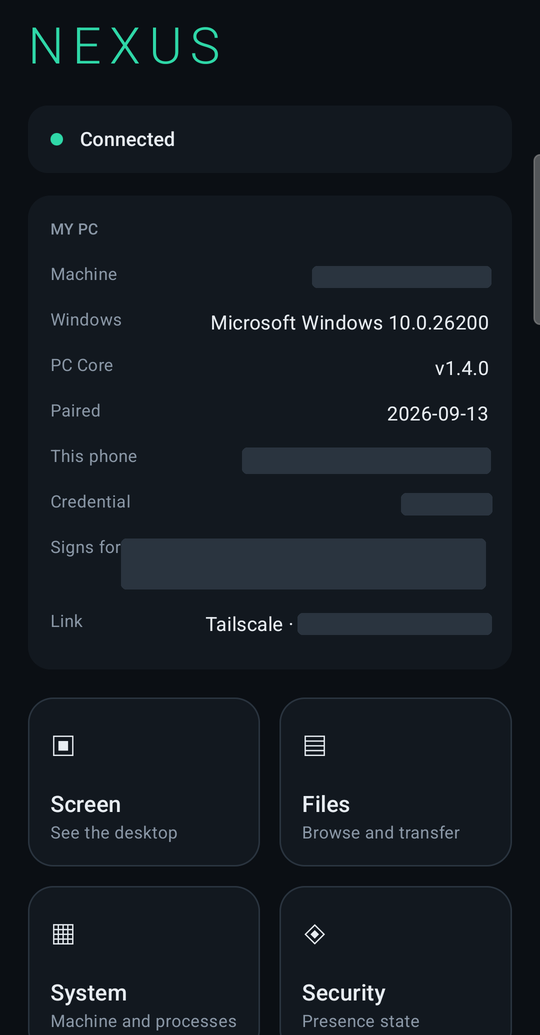
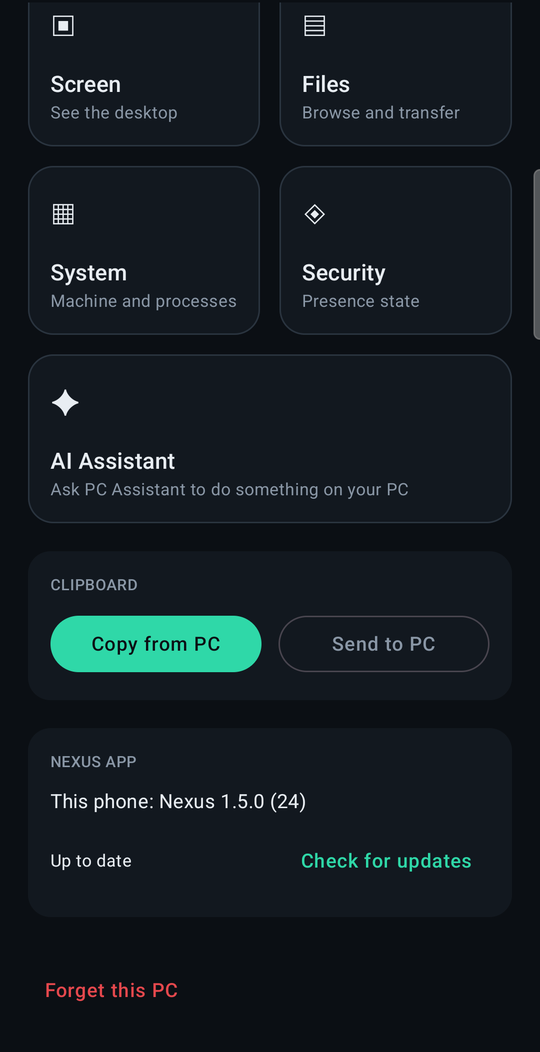
docs: real captures of a UAC prompt and the AI Assistant, taken on the phone
The README's hero is a recreation, and the real captures below it were all from 1.4.0, without the
two things Nexus is most likely to be doubted on. These were taken on the maintainer's phone on
2026-10-03, with Nexus 1.5.0, whose app is the same as 1.6.0's.

- A UAC consent prompt from the Secure Desktop, in the phone's Screen view. The command that raised
  it was typed on the phone, on a clean temporary desktop, and the prompt was answered No from the
  phone. A second capture shows the typed line and Windows' cancellation.
- An AI Assistant task in ASK mode: an approval card answered with Allow once on the phone, and the
  answer. That was the first approval answered from the real phone, so the README no longer lists it
  as untried. The caption says why a read-only query was called high-impact.
- Home again, scrolled to the tiles and the AI Assistant card; no identifier is in the crop.

Status and navigation bars are cropped, and every file was re-encoded without metadata and checked
at full size against the redaction rules. Files moves out of the README row; files-and-clipboard.md
still shows it.

diff --git a/docs/assets/README.md b/docs/assets/README.md
@@ -18,13 +18,19 @@ labelled as such wherever it appears:
 | `nexus-attribution.svg` | Diagram: whose input raises an incident on an armed PC | drawn from [security-monitoring.md](../security-monitoring.md#detection) |
 | `nexus-architecture.svg` | Diagram: phone, tailnet, PC Core, the privileged parts, the Assistant, and what leaves the PC | drawn from [security-model.md](../security-model.md) and [ai-assistant.md](../ai-assistant.md) |
 | `social-preview.png` | 1280×640 card for links to the repository | the animation's end card. Not used in any page: upload it in the repository's **Settings → General → Social preview** |
-| `screenshots/android-home.png` | Home screen, connected | real capture, Nexus 1.4.0 on the owner's phone; machine name, device id, credential fingerprint, installation id and Tailscale address redacted |
+| `screenshots/android-uac-prompt.png` | README: a UAC consent prompt from the Secure Desktop, in the phone's Screen view | real capture, Nexus 1.5.0 on the owner's phone, 2026-10-03, in landscape. The command that raised it (`Start-Process powershell -Verb RunAs`) was typed on the phone, on a clean temporary desktop; the prompt was answered No from the phone. Nothing identifying on screen |
+| `screenshots/android-remote-typing.png` | The same session a moment later: the line typed on the phone and Windows' cancellation | real capture, 1.5.0, 2026-10-03, landscape. Shows the taskbar's generic pinned icons, weather and clock |
+| `screenshots/android-home.png` | Home screen, scrolled to the feature tiles, the AI Assistant card and the app version | real capture, 1.5.0, 2026-10-03; the part of Home with the machine name and ids is above the crop, so nothing needed blanking |
+| `screenshots/android-assistant-approval.png` | AI Assistant, ASK mode, an approval card | real capture, 1.5.0, 2026-10-03, from a read-only task about the PC's CPU and RAM. The recent-tasks list, which holds the owner's own tasks, is not in any capture |
+| `screenshots/android-assistant-answer.png` | The same task, done after Allow once | real capture, 1.5.0, 2026-10-03 |
 | `screenshots/android-files.png` | Files, drives and places | real capture, 1.4.0; Windows user name redacted in every path |
 | `screenshots/android-security.png` | Security, owner present | real capture, 1.4.0; nothing identifying on screen |
 | `screenshots/windows-control-panel.png` | Local control panel on the PC, update status | real capture of the loopback page, 1.4.0; no token, pairing or device data visible |
 
-Phone captures are 540 px wide, with the status bar and navigation bar cropped. Redactions are solid
-`#2A343F` blocks, so a redaction is visibly a redaction rather than an empty field.
+Phone captures are 540 px wide in portrait and 1280 px wide in landscape, with the status bar and
+navigation bar cropped. Redactions are solid `#2A343F` blocks, so a redaction is visibly a redaction
+rather than an empty field. The 1.5.0 captures are from the same app as 1.6.0: no Android source
+changed between the two.
 
 The diagrams are SVG with their own dark background, so they read the same in GitHub's light and dark
 themes. Their text uses the system font stack (Segoe UI, Roboto, Helvetica Neue, Arial) and has room
@@ -40,25 +46,22 @@ repository. A video uploaded through GitHub's own editor does play, if one is wa
 
 In order of value. One strong image beats several weak ones.
 
-1. **`android-remote-control.png`**, for the README's row of real captures. The phone showing the PC
-   desktop mid-control, ideally with a **UAC consent prompt** on screen being answered through
-   Nexus. Use a clean desktop: no personal windows, files, browser tabs or notifications.
-2. **`android-assistant.png`**. The AI Assistant screen with a finished task, from a task that names
-   no personal file or folder.
-3. **`android-incident.png`**. An incident with its timeline and an evidence item, from a **staged**
+The remote-control, UAC and AI Assistant captures arrived on 2026-10-03. Still open:
+
+1. **`android-incident.png`**. An incident with its timeline and an evidence item, from a **staged**
    test incident: arm the PC, touch the physical mouse yourself, and let a camera pointed at a blank
-   wall record. Never use a real incident.
-4. **`demo.gif`** or a WebP (optional, under ~5 MB, 10–20 s). Real footage this time: phone → desktop
+   wall record. Never use a real incident. This one needs a person at the PC; nothing else can
+   raise an incident, by design.
+2. **`demo.gif`** or a WebP (optional, under ~5 MB, 10–20 s), from real footage: phone → desktop
    control → UAC prompt answered → Files or Security. Record the phone screen (`adb shell
    screenrecord`), trim it, and export at around 360 px wide and 10–12 fps so the README stays fast
-   to load.
-5. **`android-stream-quality.png`**. The quality panel of the remote screen (profile, resolution,
+   to load. Record in landscape with the controls hidden, or the prompt is too small to read.
+3. **`android-stream-quality.png`**. The quality panel of the remote screen (profile, resolution,
    frame rate, bitrate).
-6. **`windows-tray.png`**. The tray menu, cropped to the menu itself so no other tray icons or
+4. **`windows-tray.png`**. The tray menu, cropped to the menu itself so no other tray icons or
    taskbar content show.
 
-Captures of the current version would also replace the 1.4.0 ones: the Home screen has gained the AI
-Assistant card since then.
+Files and Security are still 1.4.0 captures.
 
 ## Redaction rules
 

diff --git a/README.md b/README.md
@@ -83,20 +83,25 @@ what lets it go further on that one machine.
 Everything above is in use on the maintainer's own PC and phone, except for these, which are
 implemented and tested but not yet exercised end to end on the real phone: file transfers (browsing
 is in use), the clipboard, the live microphone, playback of evidence clips and audio, incident alerts
-while the app is closed, and answering the Assistant's approval cards or switching AUTO/ASK from the
-phone.
+while the app is closed, and switching AUTO/ASK from the phone.
 
 <a id="real-screens"></a>
 
+<p align="center">
+  <img src="docs/assets/screenshots/android-uac-prompt.png" width="100%" alt="The Nexus Screen view on the phone, in landscape, showing a real Windows UAC consent prompt from the Secure Desktop: Windows PowerShell, verified publisher Microsoft Windows, with the buttons Evet and Hayır. The PC's Windows is in Turkish.">
+  <br>
+  <sub>A real UAC prompt from the Secure Desktop, on the phone. The command that raised it was typed on the phone, and the phone answered No (<a href="docs/remote-control.md#the-secure-desktop">the result</a>).</sub>
+</p>
+
 <table>
   <tr>
-    <td align="center" width="33%"><img src="docs/assets/screenshots/android-home.png" alt="Nexus home screen, connected to the PC, identifiers redacted" width="230"><br><sub>Home</sub></td>
-    <td align="center" width="33%"><img src="docs/assets/screenshots/android-files.png" alt="Nexus Files: the PC's places and drives, Windows user name redacted" width="230"><br><sub>Files on the PC</sub></td>
+    <td align="center" width="33%"><img src="docs/assets/screenshots/android-home.png" alt="Nexus Home: Screen, Files, System, Security and AI Assistant, the clipboard buttons, and the app's version" width="230"><br><sub>Home</sub></td>
+    <td align="center" width="33%"><img src="docs/assets/screenshots/android-assistant-approval.png" alt="The AI Assistant on the phone in ASK mode: a task about the PC's CPU and RAM, and an approval card for a PowerShell command, with Deny and Allow once" width="230"><br><sub>An AI Assistant approval, answered on the phone</sub></td>
     <td align="center" width="33%"><img src="docs/assets/screenshots/android-security.png" alt="Nexus Security screen: owner present, with the Arm button" width="230"><br><sub>Security</sub></td>
   </tr>
 </table>
 
-<p align="center"><sub>Real captures of Nexus 1.4.0 on the maintainer's phone. Identifiers are blanked out, not made up.</sub></p>
+<p align="center"><sub>Real captures from the maintainer's phone, not recreations. The prompt, Home and the AI Assistant are Nexus 1.5.0 on 3 October 2026, whose app is the same as 1.6.0's; Security is 1.4.0. The PC's Windows is set to Turkish.</sub></p>
 
 ## Who is at the keyboard
 
@@ -245,7 +250,7 @@ src/Assistant/  the AI Assistant (C#, PcAssistant.*): its own solution and tests
 android/Nexus/  the Android app (Kotlin, Jetpack Compose)
 tests/          the .NET test suite
 shared/         protocol vectors asserted by both the C# and Kotlin tests
-tools/          release publishing, Android signing, driver validation and install
+tools/          release publishing, Android signing, driver validation and the driver install plan
 docs/           guides, research records, design history, assets
 ```
 

diff --git a/docs/ai-assistant.md b/docs/ai-assistant.md
@@ -122,6 +122,16 @@ Open **AI Assistant** on the home screen.
 - **Switch AUTO/ASK** for an open task. The next tool call follows the new mode.
 - **Stop** a task that is working. PC Assistant ends Claude's process tree.
 
+<p align="center">
+  <img src="assets/screenshots/android-assistant-approval.png" alt="An ASK task on the phone waiting for approval of a PowerShell command, with Deny and Allow once" width="270">
+  &nbsp;
+  <img src="assets/screenshots/android-assistant-answer.png" alt="The same task done: Claude's answer about the PC's CPU and RAM, after the query was allowed from the phone" width="270">
+  <br>
+  <sub>A real task on Nexus 1.5.0, answered from the phone. The query only reads, but PC Assistant's
+  check takes <code>Format-List</code> for the disk command <code>format</code> and calls it
+  high-impact: it errs towards asking. The app shows Claude's Markdown as plain text.</sub>
+</p>
+
 ## What the phone shows
 
 The status line at the top of the screen:
